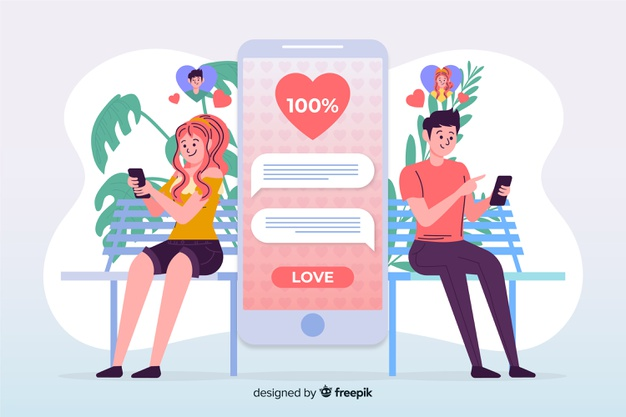
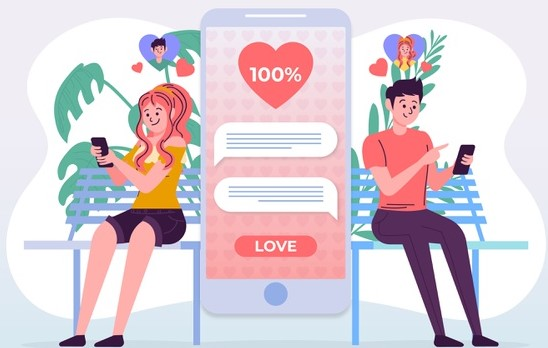
Navbar Sorting and Image responsiveness

diff --git a/app/templates/navbar.html b/app/templates/navbar.html
@@ -1,31 +1,21 @@
 <div class="navbar navbar-inverse" role="navigation">
   <div class="container-fluid">
     <div class="navbar-header">
-      <button type="button" class="navbar-toggle" data-toggle="collapse" data-target=".navbar-collapse">
-        <span class="sr-only">Toggle navigation</span>
-        <span class="icon-bar"></span>
-        <span class="icon-bar"></span>
-        <span class="icon-bar"></span>
-      </button>
-      <a class="navbar-brand brand" style="font-size: 60px; color: #FFFFFF; font-family: 'Poiret One', cursive;"
-        href="/"> cupidR. </a>
+      <a class="navbar-brand brand" style="font-size: 40px; color: #FFFFFF; font-family: 'Poiret One', cursive;"href="/"> cupidR. </a>
     </div>
-    <div class="navbar-collapse collapse kiki">
-      <ul class="nav navbar-nav navbar-right">
+    <div class="navbar-right">
+      <ul class="nav navbar-right">
 
         {% if current_user.is_authenticated %}
         <li><a class="btn btn-warning btn-outline" role="button"
-          style="font-family: 'Quicksand', sans-serif; height:40px; padding-top:10px;  color:#f0ad4e; font-size:16px;"
-          href="/">{{current_user.username}}</a></li>
+          style="font-family: 'Quicksand', sans-serif;   color:#f0ad4e; font-size:14px;"
+          href="/">{{current_user.username}}'s Profile</a></li>
         <li><a class="btn btn-warning btn-outline" role="button"
-            style="font-family: 'Quicksand', sans-serif; height:40px; padding-top:10px; color:#f0ad4e; font-size:16px;"
-            href="/">Profile</a></li>
-        <li><a class="btn btn-warning btn-outline" role="button"
-            style="font-family: 'Quicksand', sans-serif; height:40px; padding-top:10px;  color:#f0ad4e; font-size:16px;"
+            style="font-family: 'Quicksand', sans-serif;   color:#f0ad4e; font-size:14px;"
             href="{{url_for('auth.logout')}}">Sign out</a></li>
         {% else %}
         <li><a class="btn btn-warning btn-outline" role="button"
-          style="font-family: 'Quicksand', sans-serif; height:40px; padding-top:10px;  color:#f0ad4e; font-size:16px;"
+          style="font-family: 'Quicksand', sans-serif;   color:#f0ad4e; font-size:14px;"
           href="{{url_for('auth.login')}}">Log in</a></li>
         </li><br>
         {% endif %}

diff --git a/app/templates/index.html b/app/templates/index.html
@@ -2,15 +2,24 @@
 
 <!-- Content block -->
 {% block content %}
+{% if current_user.is_authenticated %}
+<div class="container" style"background-color:#B3B6B7;">
+  <div class="col-md">
+    <!--<p class="text-left" style="padding-left:25px; padding-top:20px; color:black; font-size:45px; font-family: 'Abril Fatface', cursive;">Look for Your <span style="color:red;">Match!</span></p>-->
+    <img class="img-fluid imagetwo" style="" src="static/assets/images/img1.jpg"></img>
+  </div>
+</div>
+
+{% else %}
 <div class="container">
   <div class="col">
     <div class="col-md">
-    <p class="text-center" style="color:#003459; font-size:70px; font-family: 'Abril Fatface', cursive;">Find Your SoulMate!</p>
-    <p class="text-center" style="color:#f0ad4e; font-family: 'Quicksand', sans-serif; font-size:25px;">Tired of being single? Looking for a SoulMate? Well, Say no More and Sign up Below! </p>
+    <p class="text-center" style="color:#003459; font-size:55px; font-family: 'Abril Fatface', cursive;">Find Your <span style="color:#f0ad4e;">SoulMate!</span></p>
+    <p class="text-center" style="color:#f0ad4e; font-family: 'Quicksand', sans-serif; font-size:20px;">Tired of being single? Looking for a SoulMate? Well, Say no More and Sign up Below! </p>
     {% if current_user.is_authenticated %}
 
     {% else %}
-    <a class="btn btn-warning kuku" role="button" style="font-family: 'Quicksand', sans-serif; height:40px; padding-top:10px; color:#003459; font-size:16px;" href="{{url_for('auth.register')}}">Sign Up Here</a>
+    <a class="btn btn-warning signupbtn" role="button" style="font-family: 'Quicksand', sans-serif; height:40px; padding-top:10px; color:#003459; font-size:16px;" href="{{url_for('auth.register')}}">Sign Up Here</a>
     {% endif %}
     </div>
     <div class="col-md">
@@ -18,4 +27,5 @@
     </div>
 </div>
 </div>
+{% endif %}
 {% endblock%}

diff --git a/app/static/styles.css b/app/static/styles.css
@@ -1,11 +1,7 @@
 .navbar{
   background-color: #003459;
 }
-/*moves the navbar padding on the right
-.rightnav{
-  padding-right: 50px;
-}
-styles the signup button*/
+
 .signupbtn{
   display: flex;
   justify-content: center;
@@ -18,8 +14,7 @@ styles the signup button*/
 }
 body{
   background-color: #FFFFFF;
-  /*background-image: url(https://image.freepik.com/free-vector/people-leaning-phone-while-chatting-concept-illustration_52683-23817.jpg);*/
-  /*background-size: cover;*/
+
 }
 
 .imageone{
@@ -29,6 +24,14 @@ body{
   margin-left: auto;
   margin-right: auto;
 
+}
+.imagetwo{
+  padding-top: 250px;
+  height: auto;
+  max-width: 100%;
+  display: block;
+  margin-left: auto;
+  margin-right: auto;
 }
 
 

diff --git a/app/templates/auth/login.html b/app/templates/auth/login.html
@@ -4,6 +4,6 @@
 <div class="container">
   {{ wtf.quick_form(login_form) }}
 
-  <p>Don't have an account? <a href="{{url_for('auth.register')}}"></a>Sign up here</p>
+  <p>Don't have an account? <a href="{{url_for('auth.register')}}">Sign up here</a></p>
 </div>
 {% endblock %}

diff --git a/config.py b/config.py
@@ -5,7 +5,7 @@ class Config:
     General configuration parent class
     '''
     SECRET_KEY = os.environ.get('SECRET_KEY')
-    SQLALCHEMY_DATABASE_URI = 'postgresql+psycopg2://victor:12345@localhost/cupidr'
+    SQLALCHEMY_DATABASE_URI = 'postgresql+psycopg2://jobmusembi:musembijob@localhost/cupidr'
     SQLALCHEMY_TRACK_MODIFICATIONS = True
 
 class ProdConfig(Config):
